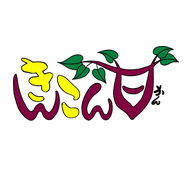
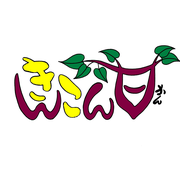
ロゴとアイコンを、新しい画像で作り直す(余白をそろえる)
Claude-Session: https://claude.ai/code/session_01TaDYLKZviGBCWGDuRishVT

Changed region(s): [[0.0625, 0.2188, 0.9375, 0.6562]]

diff --git a/attendance/user.html b/attendance/user.html
@@ -8,8 +8,8 @@
 <meta name="apple-mobile-web-app-title" content="出欠れんらく">
 <meta name="theme-color" content="#1B5E20">
 <link rel="manifest" href="manifest.webmanifest">
-<link rel="icon" href="icon-192.png">
-<link rel="apple-touch-icon" href="icon-192.png">
+<link rel="icon" href="icon-192.png?v=2">
+<link rel="apple-touch-icon" href="icon-192.png?v=2">
 <link rel="preconnect" href="https://fonts.googleapis.com"><link rel="stylesheet" href="https://fonts.googleapis.com/css2?family=BIZ+UDPGothic:wght@400;700&family=Zen+Maru+Gothic:wght@500;700&display=swap">
 <title>出欠れんらく</title>
 <style>
@@ -288,7 +288,7 @@ function pinSubmit(){
   }).catch(function(){V.pinbusy=false;V.pinerr='つながりません。電波を たしかめてください。';render();});
 }
 function head(){
-  return '<div class="top"><div class="brand"><img class="logo-img" src="logo.png" alt="きんこんかん" width="73" height="44"><div><h1>'+esc(CFG.facility||'')+' 出欠れんらく</h1>'+(P.name?'<p class="muted">'+esc(P.name)+' さん</p>':'')+'</div></div></div>';
+  return '<div class="top"><div class="brand"><img class="logo-img" src="logo.png?v=2" alt="きんこんかん" width="73" height="46"><div><h1>'+esc(CFG.facility||'')+' 出欠れんらく</h1>'+(P.name?'<p class="muted">'+esc(P.name)+' さん</p>':'')+'</div></div></div>';
 }
 function msgCard(title,body){
   return '<section class="card"><h2>'+title+'</h2><p style="margin:0;font-size:18px">'+body+'</p></section>';

diff --git a/attendance/staff.html b/attendance/staff.html
@@ -2647,7 +2647,7 @@ function newToken(){var a=new Uint8Array(16);(window.crypto||window.msCrypto).ge
 
 /* ---------- 画面 ---------- */
 function topbar(){
-  return '<div class="top"><div class="brand"><img class="logo-img" src="logo.png" alt="きんこんかん" width="73" height="44"><div><h1>'+esc(CFG.facility||'')+' 出欠(職員用)</h1><p class="muted">きんこんかん</p></div></div>'+(V.view==='app'?'<button class="btn s" data-act="logout">ログアウト</button>':'')+'</div>';
+  return '<div class="top"><div class="brand"><img class="logo-img" src="logo.png?v=2" alt="きんこんかん" width="73" height="46"><div><h1>'+esc(CFG.facility||'')+' 出欠(職員用)</h1><p class="muted">きんこんかん</p></div></div>'+(V.view==='app'?'<button class="btn s" data-act="logout">ログアウト</button>':'')+'</div>';
 }
 function loginView(){
   var l=V.login;
